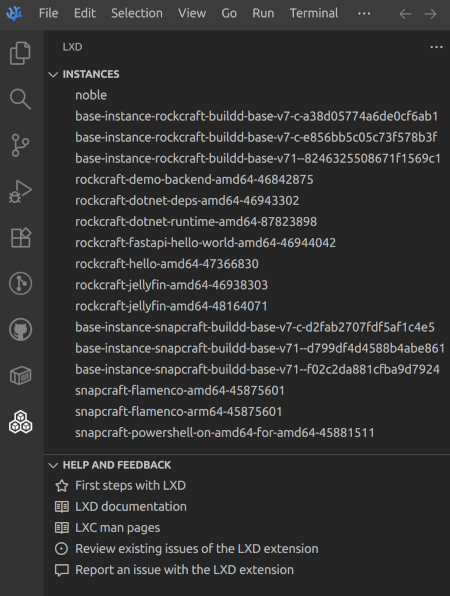
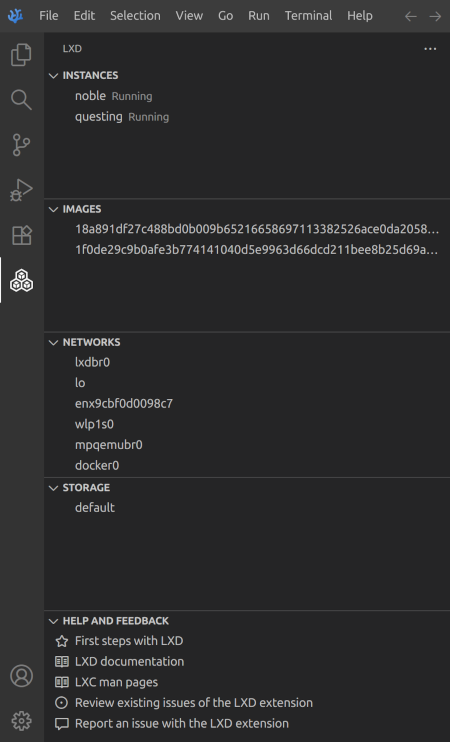
docs(readme): update screenshot

diff --git a/README.md b/README.md
@@ -6,7 +6,7 @@ This Extension for Visual Studio Code makes it easy to create, manage, and inspe
 
 ### LXD Explorer
 
-This extension contributes an LXD Explorer view to VS Code. The LXD Explorer lets you examine and manage LXD-related assets: instances, images.
+This extension contributes an LXD Explorer view to VS Code. The LXD Explorer lets you examine and manage LXD-related assets: instances, images, networks, storage.
 
 ![Screenshot of the LXD Explorer](resources/readme/lxd-explorer-view.png)
 

diff --git a/CHANGELOG.md b/CHANGELOG.md
@@ -17,6 +17,10 @@ and this project adheres to [Semantic Versioning](https://semver.org/spec/v2.0.0
 - Instance explorer is refreshed every 15 seconds.
 - Refresh intervall can be configured via the `lxd.refreshInterval` property.
 
+### Changed
+
+- updated screenshot in readme
+
 ### Fixed
 
 - Readme version badge links were swapped.
